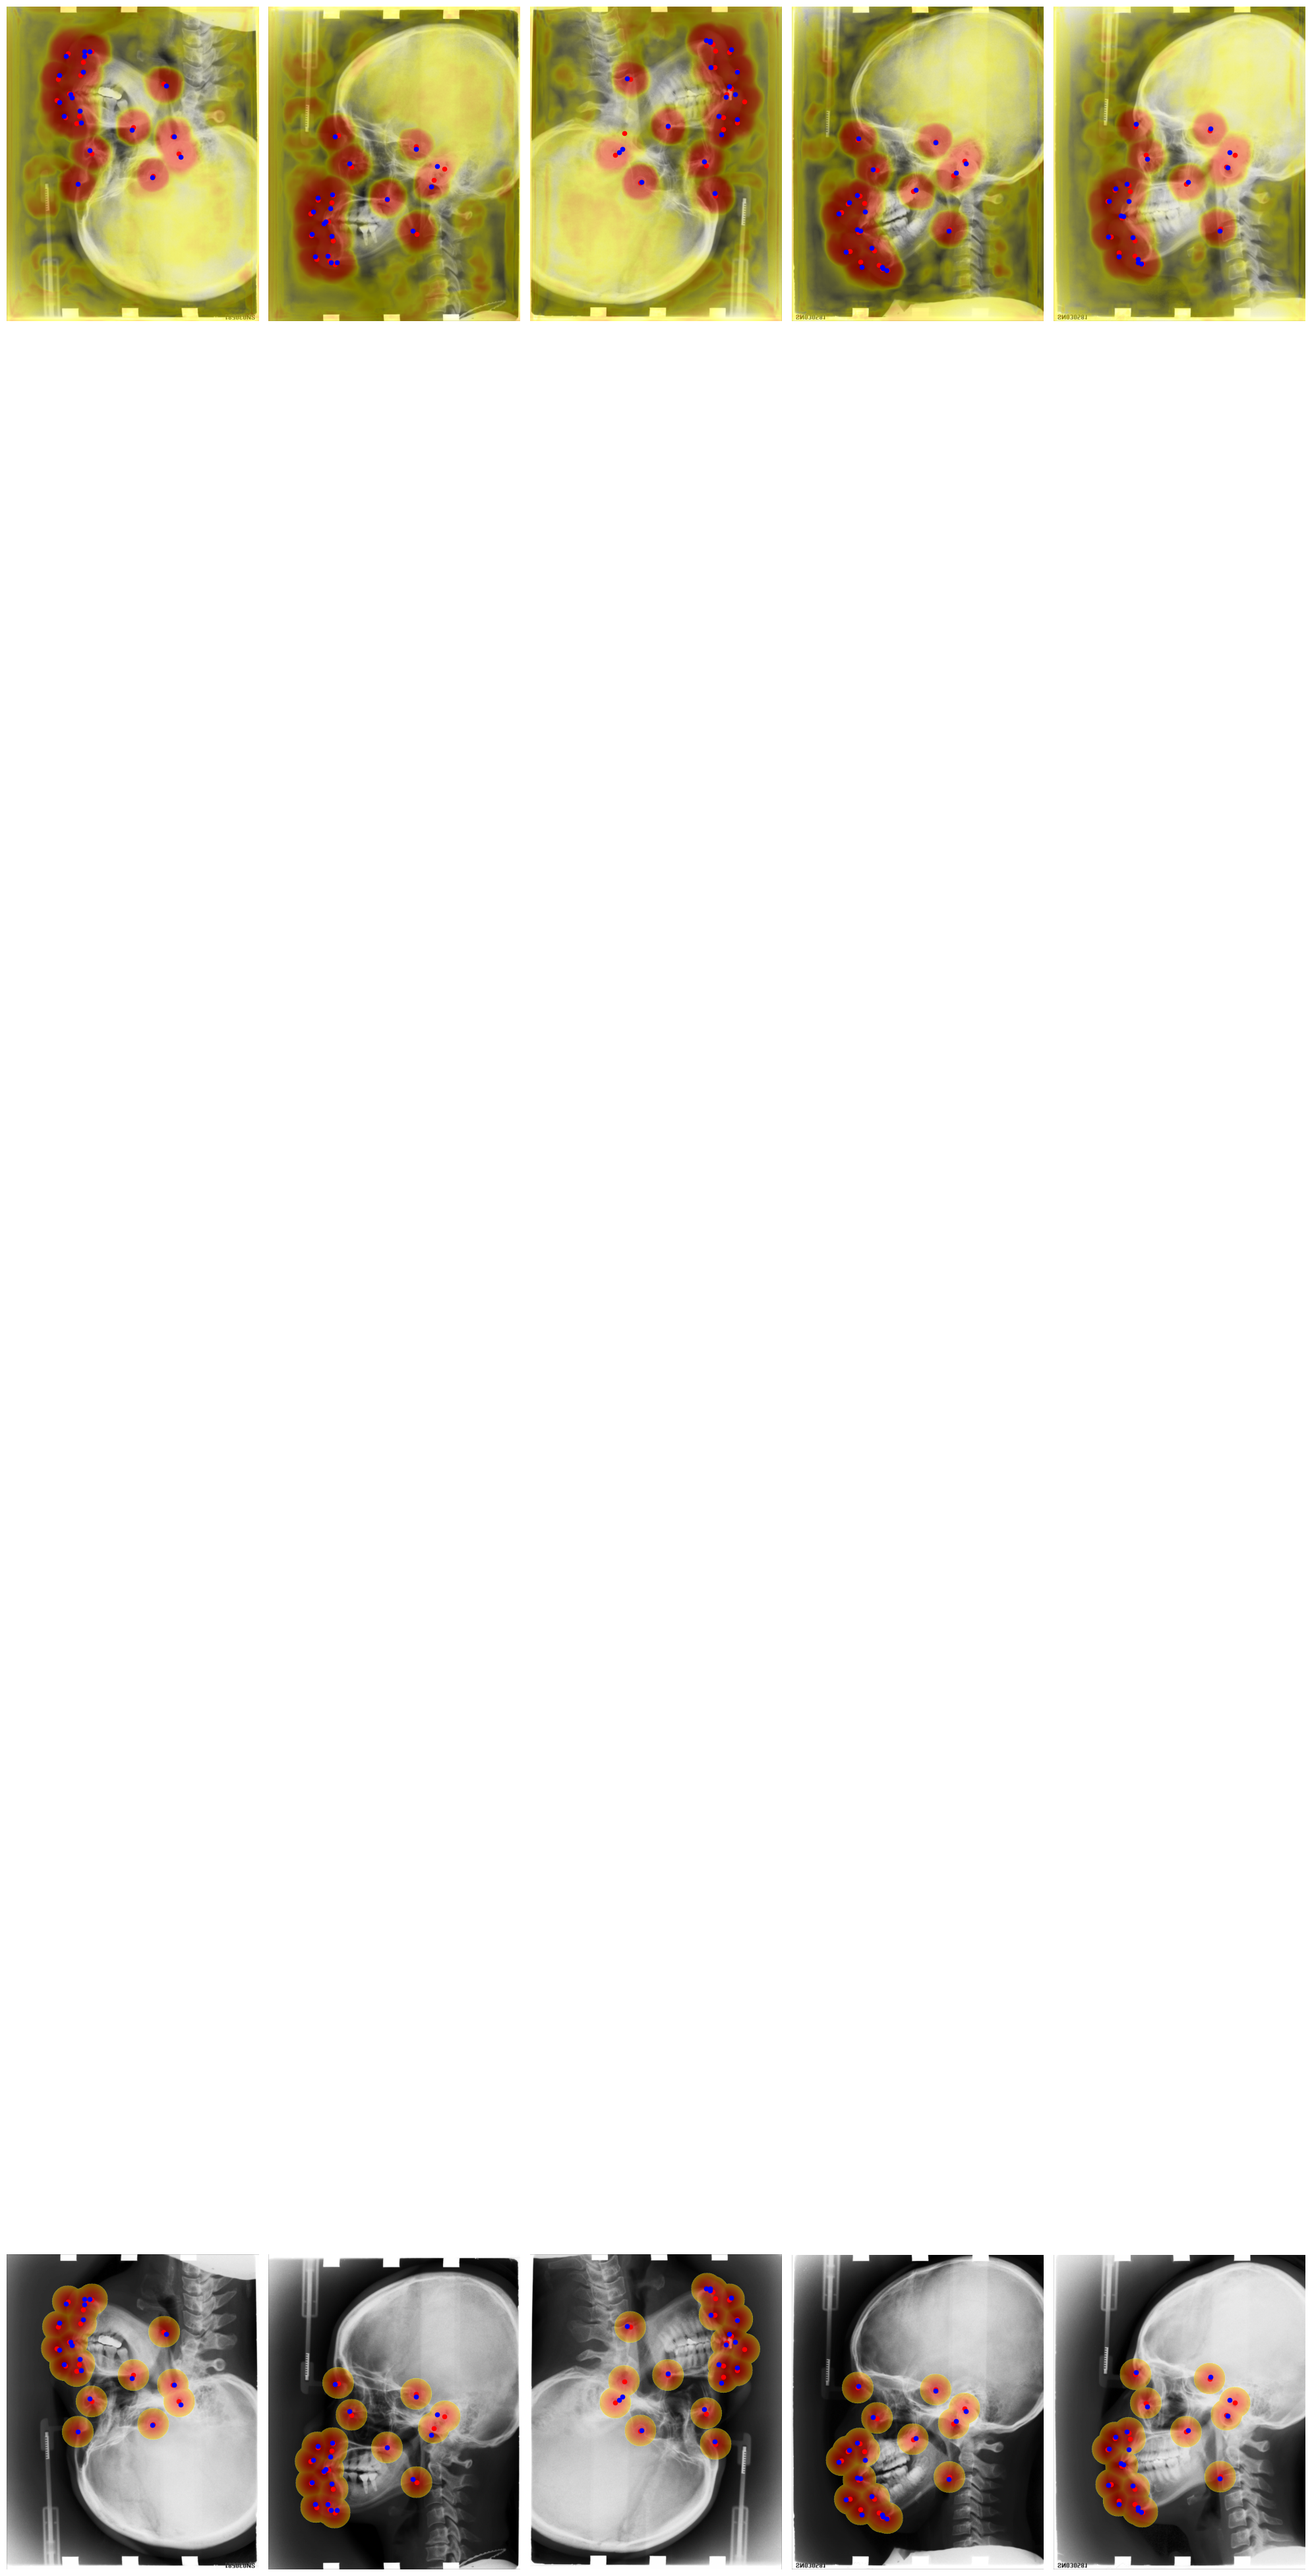
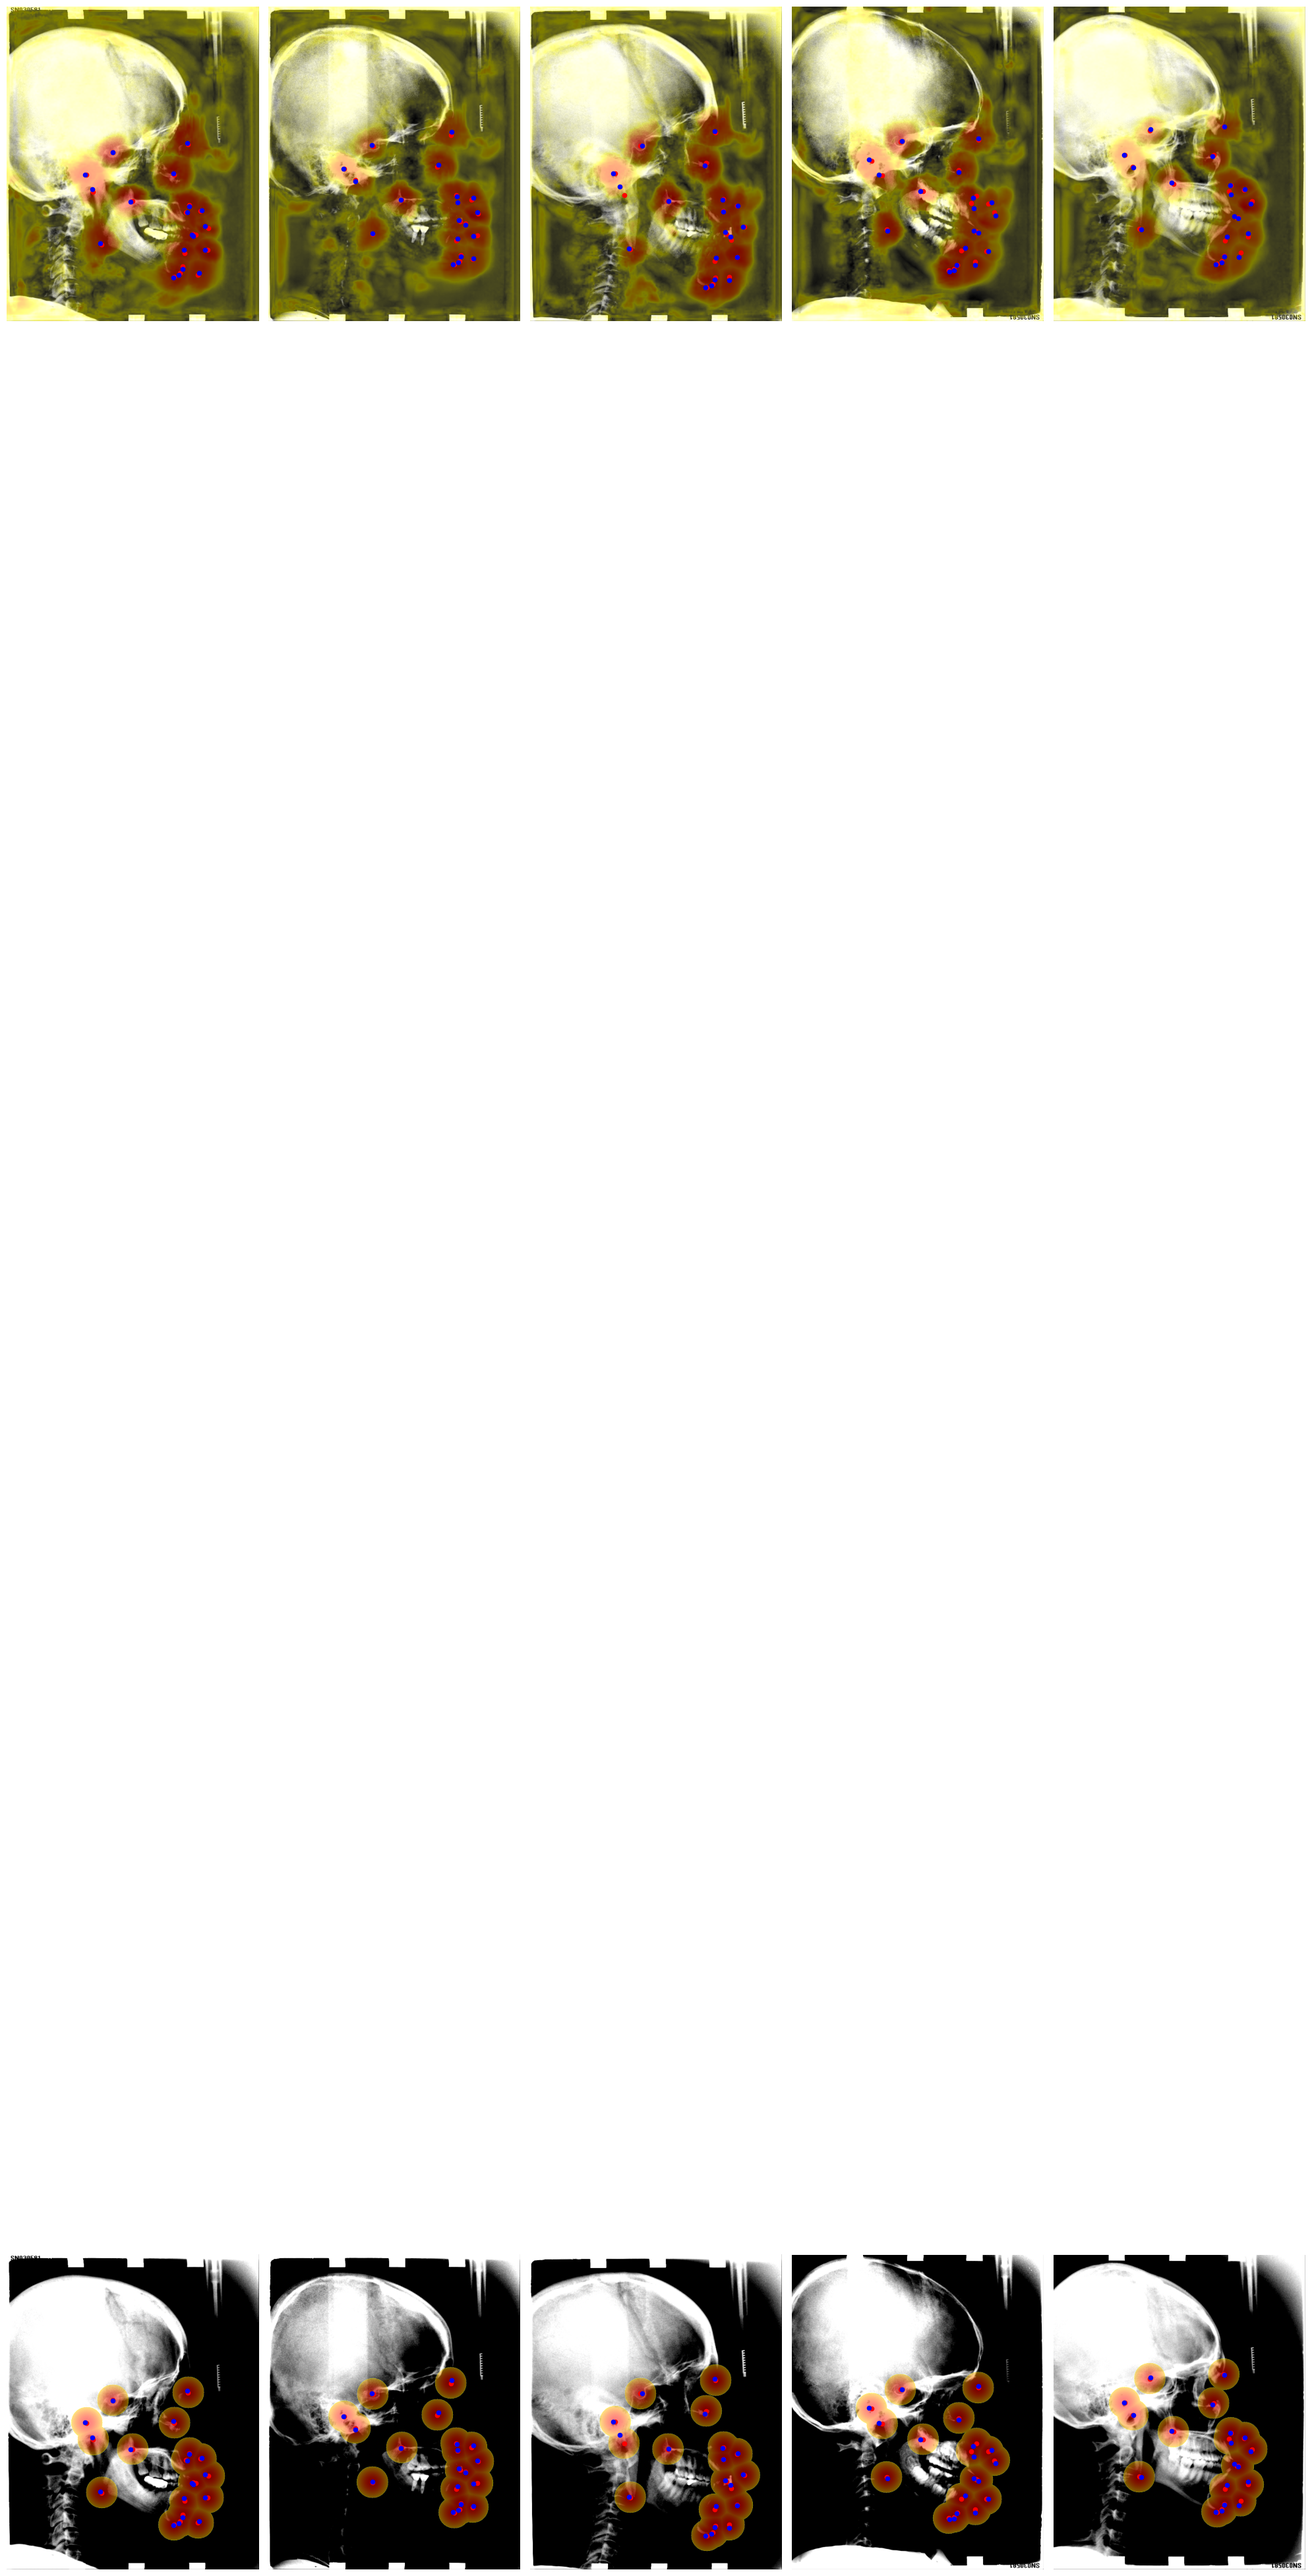
huge improvements through regression voting

Changed region(s): [[0.0, 0.8743, 0.997, 0.9992], [0.0, 0.0, 0.997, 0.1249]]

diff --git a/experiment/models/HeatmapBasedLandmarkDetection.py b/experiment/models/HeatmapBasedLandmarkDetection.py
@@ -49,7 +49,6 @@ class HeatmapBasedLandmarkDetection(L.LightningModule):
         )
 
     def forward_with_heatmaps(self, x):
-        x = x.repeat(1, 3, 1, 1)
         output = self.model(x)
         return output
 
@@ -86,7 +85,7 @@ class HeatmapBasedLandmarkDetection(L.LightningModule):
     ) -> None:
         feature_maps = (
             torch.cat([
-                self.forward_with_heatmaps(image)
+                self.forward_with_heatmaps(image.unsqueeze(0))
                 for image in images
             ], dim=0) if self.batch_size == 1
             else self.forward_with_heatmaps(images)
@@ -135,7 +134,6 @@ class HeatmapBasedLandmarkDetection(L.LightningModule):
         return self.get_points(output)
     
     def regression_voting(self, heatmaps, R):
-        # print("11", time.asctime())
         topN = int(R * R * 3.1415926)
         heatmap = heatmaps
         imageNum, featureNum, h, w = heatmap.size()
@@ -147,37 +145,39 @@ class HeatmapBasedLandmarkDetection(L.LightningModule):
         Xmap = torch.round(heatmap[:, landmarkNum : landmarkNum * 2, :].data * R).long() * w
         Ymap = torch.round(heatmap[:, landmarkNum * 2 : landmarkNum * 3, :].data * R).long()
         topkP, indexs = torch.topk(Pmap, topN)
-        # ~ plt.imshow(Pmap.reshape(imageNum, landmarkNum, h,w)[0][0], cmap='gray', interpolation='nearest')
+
         for imageId in range(imageNum):
             for landmarkId in range(landmarkNum):
 
                 topnXoff = Xmap[imageId][landmarkId][
                     indexs[imageId][landmarkId]
                 ]  # offset in x direction
+
                 topnYoff = Ymap[imageId][landmarkId][
                     indexs[imageId][landmarkId]
                 ]  # offset in y direction
+
                 VotePosi = (
                     (topnXoff + topnYoff + indexs[imageId][landmarkId])
                     .cpu()
                     .numpy()
                     .astype("int")
                 )
+
                 tem = VotePosi[VotePosi >= 0]
                 maxid = 0
+
                 if len(tem) > 0:
                     maxid = np.argmax(np.bincount(tem))
+
                 x = maxid // w
                 y = maxid - x * w
-                x, y = x / (h - 1), y / (w - 1)
-                predicted_landmarks[imageId][landmarkId] = torch.tensor([x, y], device=self.device)
+                #x, y = x / (h - 1), y / (w - 1)
+                predicted_landmarks[imageId][landmarkId] = torch.tensor([y, x], device=self.device)
         return predicted_landmarks
 
     def get_points(self, model_output: torch.Tensor):
-        num_points = model_output.size(1) // 3
-        return self.heatmap_helper.get_highest_points(
-            model_output[:, :num_points]
-        )
+        return self.regression_voting(model_output, 40)
 
     def step(
         self,

diff --git a/experiment/dataset/LateralSkullRadiographDataset.py b/experiment/dataset/LateralSkullRadiographDataset.py
@@ -94,7 +94,7 @@ class LateralSkullRadiographDataset(Dataset):
         if not os.path.exists(img_name):
             img_name += '.jpg'
 
-        image = Image.open(img_name).convert('L')
+        image = Image.open(img_name).convert('RGB')
 
         image = self.to_tensor(image)
 
